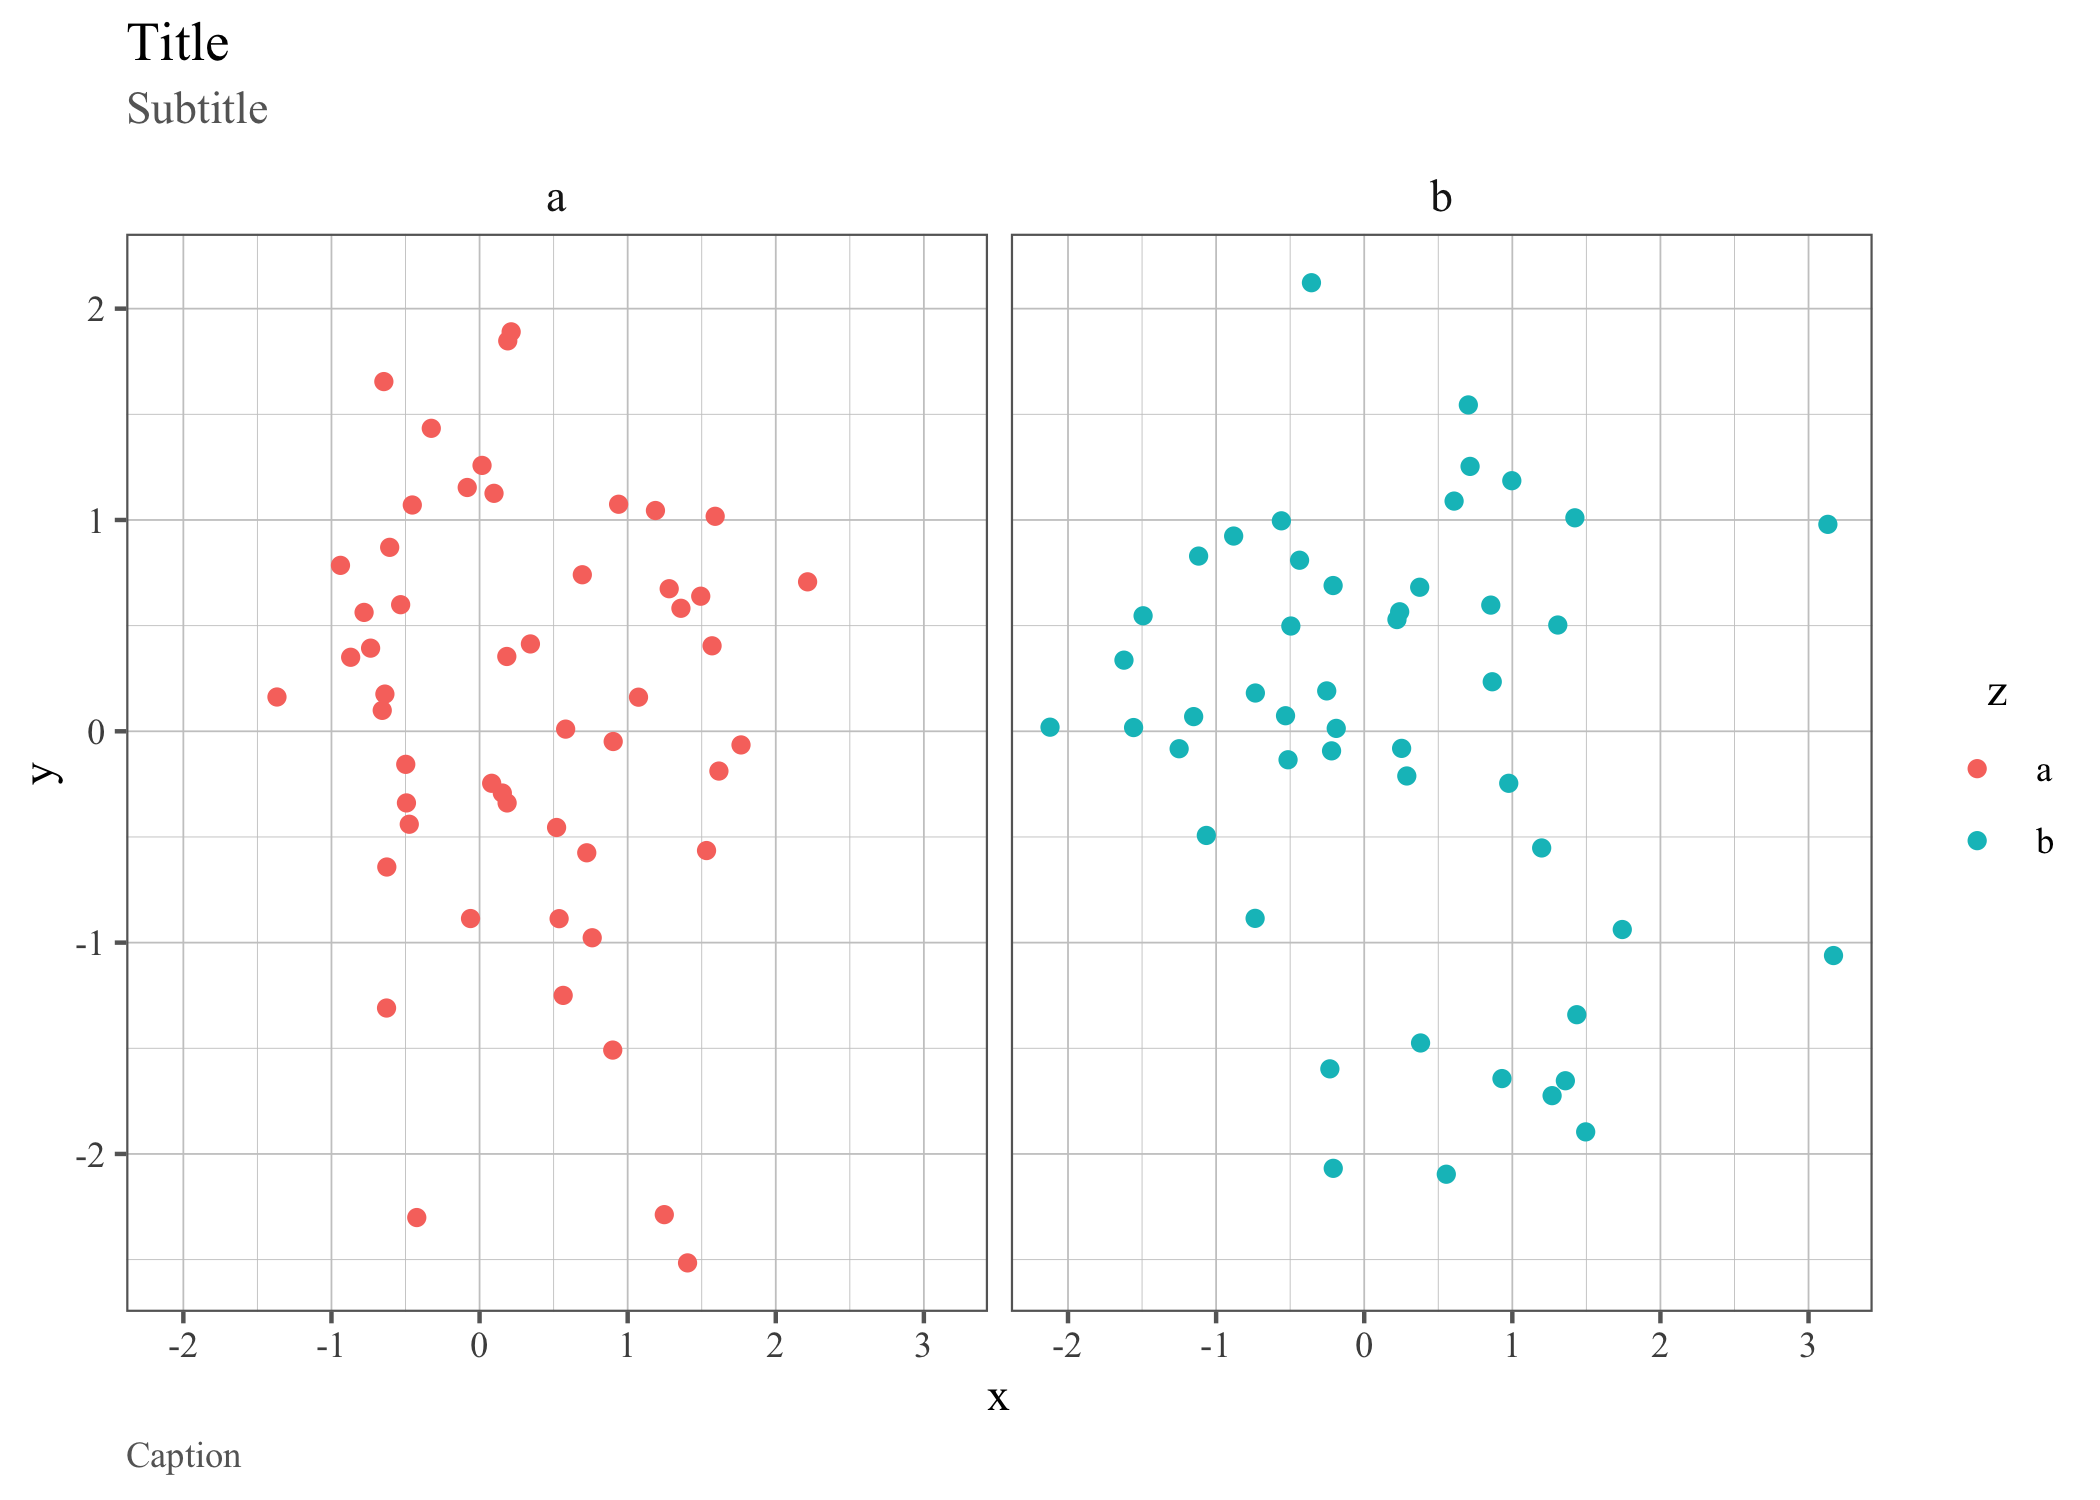
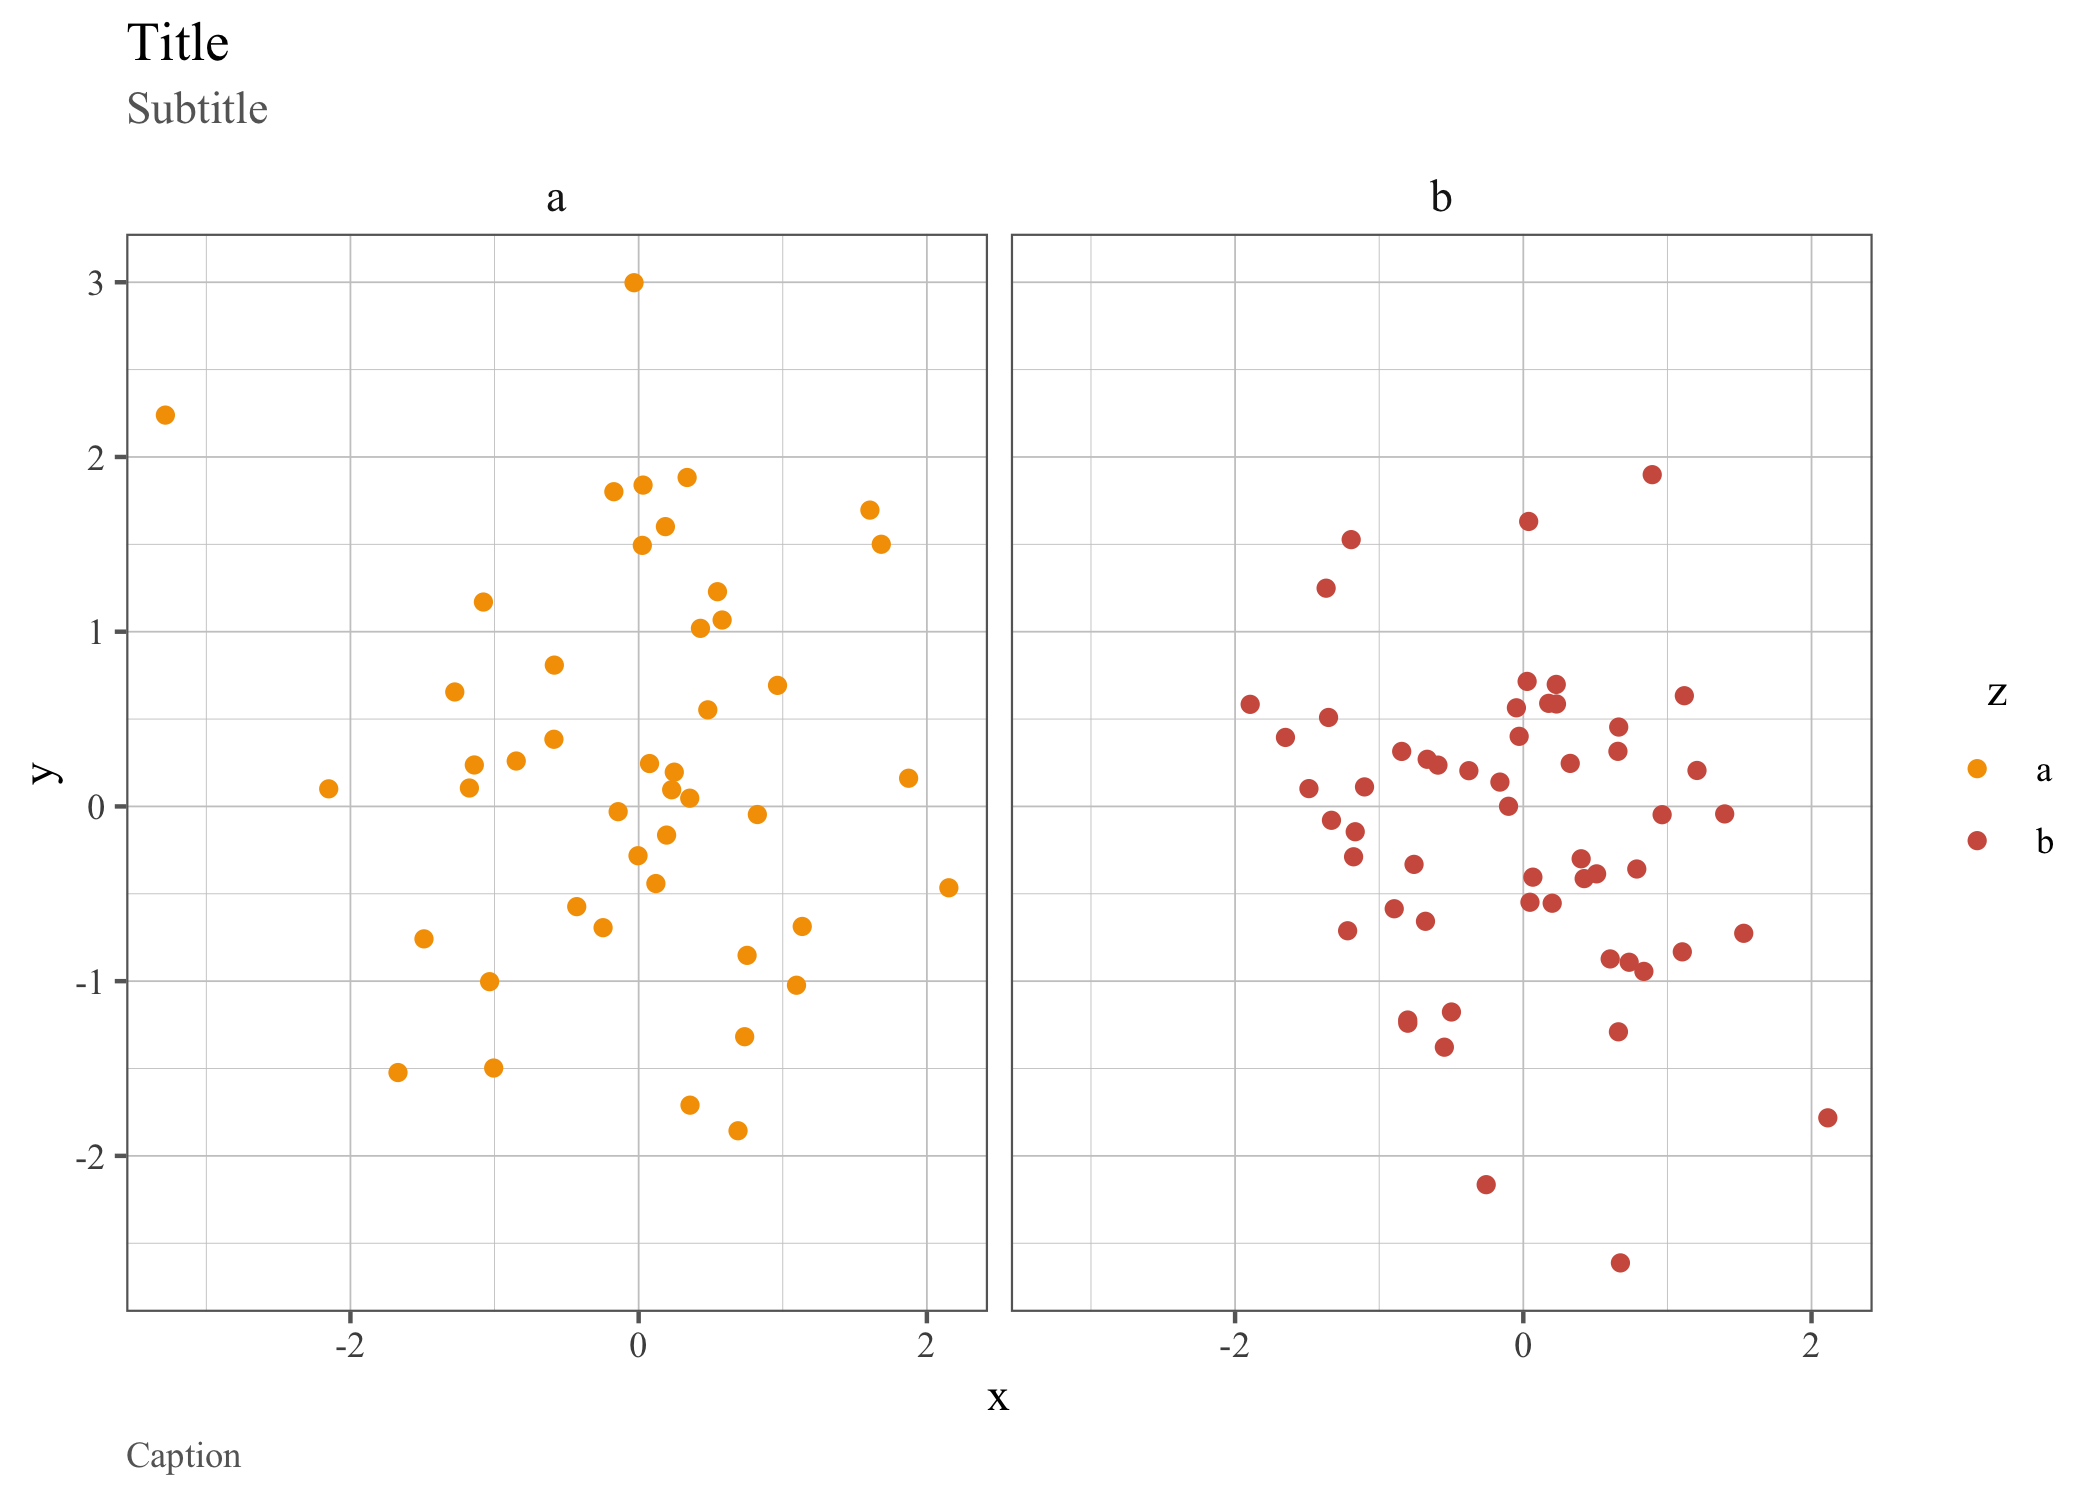
update readme

diff --git a/README.md b/README.md
@@ -1,12 +1,12 @@
 
 <!-- README.md is generated from README.Rmd. Please edit that file -->
-councildown
-===========
 
-The `councildown` package implements style guide compliant defaults for R Markdown documents, `ggplot2` plots, and `leaflet` maps.
+# councildown
 
-Installation
-------------
+The `councildown` package implements style guide compliant defaults for
+R Markdown documents, `ggplot2` plots, and `leaflet` maps.
+
+## Installation
 
 You can install the released version of councildown from GitHub
 
@@ -14,12 +14,13 @@ You can install the released version of councildown from GitHub
 remotes::install_packages("newyorkcitycouncil/councildown")
 ```
 
-Example
--------
+## Example
 
 ### ggplot2
 
-On load, the `theme_set()` is called, setting `theme_nycc()` as the default `ggplot2` theme. Additionally, common `scale_*` functions are overwritten with `scale_fill_nycc()` and `scale_color_nycc()`.
+On load, the `theme_set()` is called, setting `theme_nycc()` as the
+default `ggplot2` theme. Additionally, common `scale_*` functions are
+overwritten with `scale_fill_nycc()` and `scale_color_nycc()`.
 
 ``` r
 tibble(x = rnorm(100), 
@@ -27,6 +28,7 @@ tibble(x = rnorm(100),
        z = sample(c("a", "b"), 100, replace = TRUE)) %>% 
   ggplot(aes(x, y, color = z)) +
   geom_point() +
+  scale_color_nycc(discrete = TRUE) +
   facet_wrap(~z) + 
   labs(title = "Title",
        subtitle = "Subtitle",
@@ -35,7 +37,10 @@ tibble(x = rnorm(100),
 
 <img src="man/figures/README-unnamed-chunk-1-1.png" width="100%" />
 
-Additionally, `theme_nycc()` has an argument `print` for changing the theme to better fit print documents made at the council. The main difference is that when `print = TRUE` all plot fonts are Times New Roman as opposed to the web fonts specified in the brand guidelines.
+Additionally, `theme_nycc()` has an argument `print` for changing the
+theme to better fit print documents made at the council. The main
+difference is that when `print = TRUE` all plot fonts are Times New
+Roman as opposed to the web fonts specified in the brand guidelines.
 
 ``` r
 tibble(x = rnorm(100), 
@@ -43,6 +48,7 @@ tibble(x = rnorm(100),
        z = sample(c("a", "b"), 100, replace = TRUE)) %>% 
   ggplot(aes(x, y, color = z)) +
   geom_point() +
+  scale_color_nycc(discrete = TRUE) +
   facet_wrap(~z) + 
   labs(title = "Title",
        subtitle = "Subtitle",
@@ -54,7 +60,9 @@ tibble(x = rnorm(100),
 
 ### leaflet
 
-The function `addCouncilStyle()` adds default map tiles and City Council district outlines and labels to `leaflet` maps. Use this instead of `addTiles()`.
+The function `addCouncilStyle()` adds default map tiles and City Council
+district outlines and labels to `leaflet` maps. Use this instead of
+`addTiles()`.
 
 ``` r
 leaflet() %>% 
@@ -65,4 +73,6 @@ leaflet() %>%
 
 ### R Markdown
 
-The package includes an R Markdown template for writing Council reports. After installing the package, create a new report by choosing New &gt; R Markdown &gt; From Template &gt; City Council Report in RStudio.
+The package includes an R Markdown template for writing Council reports.
+After installing the package, create a new report by choosing New \> R
+Markdown \> From Template \> City Council Report in RStudio.
